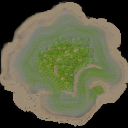
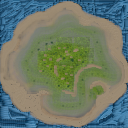
reworked colormap, added boat and adjusted position of pier, house, palm

diff --git a/src/World/World.js b/src/World/World.js
@@ -7,6 +7,7 @@ import { PalmBuilder} from './components/PalmBuilder.js';
 import { BeachHouseBuilder } from './components/BeachHouseBuilder.js';
 import { PierBuilder } from './components/PierBuilder.js';
 import { GrassBuilder } from './components/GrassBuilder.js';
+import { BoatBuilder } from './components/BoatBuilder.js';
 
 import {
     PMREMGenerator,
@@ -114,24 +115,29 @@ class World {
         const palmBuilder = new PalmBuilder();
         const beachHouseBuilder = new BeachHouseBuilder();
         const pierBuilder = new PierBuilder();
-        const grassBuilder = new GrassBuilder();
+        // const grassBuilder = new GrassBuilder();
+        const boatBuilder = new BoatBuilder();
 
-        this.palm1 = await palmBuilder.load(100,5,0, Math.PI/2);
-        this.beachHouse = await beachHouseBuilder.load(0,-17,0,0);
-        this.pier = await pierBuilder.load(10,-14,120, 0);
-        this.grass = await grassBuilder.load(0,6.5,0,0);
+        this.palm1 = await palmBuilder.load(100,8,0, 0);
+        this.beachHouse = await beachHouseBuilder.load(0,-14,0,0);
+        this.pier = await pierBuilder.load(10,-10,155, 0);
+        // this.grass = await grassBuilder.load(0,6.5,0,0);
+        this.boat = await boatBuilder.load(30, -26, 110, Math.PI);
 
         this.#loop.updatables.push(this.palm1);
         this.#scene.add(this.palm1);
         this.#scene.add(this.beachHouse);
         this.#scene.add(this.pier);
-        this.#scene.add(this.grass);
+        this.#scene.add(this.boat);
+        // this.#scene.add(this.grass);
 
         this.#camera.lookAt(this.palm1.position);
         this.#controller.addObjectForCollision(this.palm1.children[0]);
         this.#controller.addObjectForCollision(this.palm1.children[1]);
         this.#controller.addObjectForCollision(this.beachHouse.children[0].children);
         this.#controller.addObjectForCollision(this.pier.children);
+        this.#controller.addObjectForCollision(this.boat.children);
+
       }
 
     render() {

diff --git a/src/World/components/terrain.js b/src/World/components/terrain.js
@@ -20,7 +20,7 @@ function createGround() {
         map: texture,
         normalMap: normal
     }));
-    planeJS.position.x = -1;
+    planeJS.position.y = -2;
     imageLoader.load("../../assets/heightmap2.png", function(t){       
         var canvas = document.createElement("canvas");
         canvas.width = t.width;
@@ -41,7 +41,7 @@ function createGround() {
             for (var w = 0; w < wdth; w++) {
                 var imgData = ctx.getImageData(Math.round(w * widthStep), Math.round(h * heightStep), 1, 1).data;
                 var displacementVal = imgData[0] / 255.0;
-                displacementVal *= 20;
+                displacementVal *= 25;
                 var idx = (h * wdth) + w;
                 vertex.fromBufferAttribute( positionAttribute, idx);
                 vertex.y = displacementVal;
@@ -75,7 +75,7 @@ function createGroundWithDisplacementMap() {
 }
 
 function createOcean() {
-    const geometry = new PlaneGeometry(1000, 1000);
+    const geometry = new PlaneGeometry(10000, 10000);
     const loader = new TextureLoader();
     let water = new Water(
         geometry,
@@ -94,7 +94,7 @@ function createOcean() {
         }
     );
     water.rotation.x = -Math.PI/2;
-    water.position.y = 0;
+    water.position.y = 6;
     return water;
 }
 

diff --git a/src/World/components/BoatBuilder.js b/src/World/components/BoatBuilder.js
@@ -1,0 +1,30 @@
+import {GLTFLoader} from '../../../lib/three/examples/jsm/loaders/GLTFLoader.js';
+import{AnimationMixer, Object3D} from 'three';
+
+class BoatBuilder{
+    constructor(){
+        this.boat = new Object3D();
+    }
+
+    async load(x, y, z, rotationY){
+        const loader = new GLTFLoader();
+        const data = await loader.loadAsync('/assets/models/boat.gltf');
+        
+        this.boat = this.setUpModel(data);
+
+        this.boat.position.x = x;
+        this.boat.position.y = y;
+        this.boat.position.z = z;
+        this.boat.rotation.y = rotationY;
+
+        return this.boat;
+    }
+
+    setUpModel(data){
+        const model = data.scene;
+        model.scale.set(30,30,30);
+        return model;
+    }
+}
+
+export {BoatBuilder};

diff --git a/src/World/components/Controller.js b/src/World/components/Controller.js
@@ -272,7 +272,7 @@ class Controller {
 
     checkOutOfWorld() {
         if (this.location.y < - 100) {
-            this.location = new Vector3(0, 500, 0);
+            this.location = new Vector3(0, 1000, 0);
         }
     }
 }

diff --git a/src/World/components/PierBuilder.js b/src/World/components/PierBuilder.js
@@ -22,7 +22,7 @@ class PierBuilder{
 
     setUpModel(data){
         const model = data.scene;
-        model.scale.set(15,15,15);
+        model.scale.set(15,15,40);
         return model;
     }
 }
